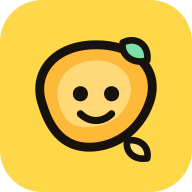
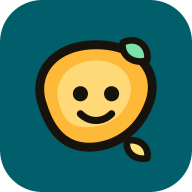
Nieuwe look: petrol en teal in plaats van gele stickers
Zachte schaduwen, Poppins en Inter, nieuwe iconen en themakleuren.
Cacheversie naar schnitzel-v4 zodat iedereen de nieuwe look krijgt.

Claude-Session: https://claude.ai/code/session_01PdZVoL7MrNpysw5bb3Zjmj

diff --git a/styles.css b/styles.css
@@ -1,105 +1,102 @@
-/* Concept: sticker-stijl. Dikke omlijning, harde schaduwen, felle vlakken op een gele puntjesachtergrond. Spelelementen: XP, level, streak, combo. */
+/* Concept: rustig en helder. Petrol en teal op een zacht grijswitte achtergrond, oranje alleen voor de belangrijkste knop. Spelelementen: XP, level, streak, combo. */
 :root {
-  --bg: #ffd84a;
-  --dots: #f0c426;
-  --card: #fffdf5;
-  --ink: #17120c;
-  --muted: #5d5444;
-  --edge: #17120c;
-  --shadow: #17120c;
-  --field: #fff6d6;
-  --c1: #ff8a5c; --c2: #7be0a9; --c3: #7cc8ff; --c4: #ff9ec7; --c5: #c9a7ff;
-  --hot: #ff5a45;
-  --good: #7be0a9; --near: #ffe27a; --bad: #ff9a8a;
-  --on-fill: #17120c;
-  --paper: #fffdf5;                /* vaste crèmekleur voor knoppen/labels op felle vlakken */
-  --rim: var(--edge);              /* rand van de blokken zelf */
-  --rim-shadow: var(--shadow);     /* schaduw van de blokken zelf */
-  --line: var(--edge);             /* zachtere rand voor rustige panelen */
-  --line-shadow: var(--shadow);
-  --line-strong: var(--edge);      /* velden en keuzeknoppen */
-  --font-display: "Bricolage Grotesque", "Trebuchet MS", system-ui, sans-serif;
-  --font-body: "Figtree", system-ui, -apple-system, "Segoe UI", sans-serif;
+  --bg: #F7F9F9;
+  --dots: transparent;
+  --card: #FFFFFF;
+  --ink: #1A1A1A;
+  --muted: #4A5A5C;
+  --edge: #005F6A;
+  --shadow: rgba(0, 95, 106, .18);
+  --field: #F3F8F8;
+  --c1: #F8CDB8; --c2: #BFE3DA; --c3: #CBE5E8; --c4: #E4EEEE; --c5: #AFD6D9;
+  --hot: #E06D3B;
+  --accent: #008080;
+  --good: #BFE3DA; --near: #F7E3A8; --bad: #F5B5A6;
+  --on-fill: #1A1A1A;
+  --paper: #FFFFFF;                /* vaste lichte kleur voor knoppen/labels op gekleurde vlakken */
+  --rim: #CBD8D8;                  /* rand van de blokken zelf */
+  --rim-shadow: rgba(0, 95, 106, .12);
+  --line: #CBD8D8;                 /* zachtere rand voor rustige panelen */
+  --line-shadow: rgba(0, 95, 106, .12);
+  --line-strong: #7FA9AD;          /* velden en keuzeknoppen */
+  --font-display: "Poppins", system-ui, sans-serif;
+  --font-body: "Inter", system-ui, -apple-system, "Segoe UI", sans-serif;
 }
 @media (prefers-color-scheme: dark) {
   :root:not([data-theme="light"]) {
-    --bg: #2a2218; --dots: #362c1f; --card: #3a3024; --ink: #fbf3df; --muted: #d2c7b0; --edge: #fbf3df; --shadow: #17110a;
-    --field: #2e251a; --hot: #ff6b57; color-scheme: dark;
-    /* donker: felle blokken houden een crèmekleurige rand met een warme gouden schaduw; rustige panelen een zachtere rand */
-    --rim-shadow: #947a38;
-    --line: #6a5b44; --line-shadow: #17110a; --line-strong: #a99a78;
+    --bg: #0E1A1C; --card: #16282B; --ink: #EAF2F2; --muted: #A8BEC0; --edge: #5FA8AD; --shadow: rgba(0, 0, 0, .45);
+    --field: #112023; --hot: #F0814F; color-scheme: dark;
+    --rim: #2C4448; --rim-shadow: rgba(0, 0, 0, .35);
+    --line: #2C4448; --line-shadow: rgba(0, 0, 0, .35); --line-strong: #4B7377;
   }
 }
 :root[data-theme="dark"] {
-  --bg: #2a2218; --dots: #362c1f; --card: #3a3024; --ink: #fbf3df; --muted: #d2c7b0; --edge: #fbf3df; --shadow: #17110a;
-  --field: #2e251a; --hot: #ff6b57; color-scheme: dark;
-  /* donker: felle blokken houden een crèmekleurige rand met een warme gouden schaduw; rustige panelen een zachtere rand */
-  --rim-shadow: #947a38;
-  --line: #6a5b44; --line-shadow: #17110a; --line-strong: #a99a78;
+  --bg: #0E1A1C; --card: #16282B; --ink: #EAF2F2; --muted: #A8BEC0; --edge: #5FA8AD; --shadow: rgba(0, 0, 0, .45);
+  --field: #112023; --hot: #F0814F; color-scheme: dark;
+  --rim: #2C4448; --rim-shadow: rgba(0, 0, 0, .35);
+  --line: #2C4448; --line-shadow: rgba(0, 0, 0, .35); --line-strong: #4B7377;
 }
 * { box-sizing: border-box; }
 body {
   background-color: var(--bg);
-  background-image: radial-gradient(var(--dots) 2px, transparent 2.5px);
-  background-size: 22px 22px;
   color: var(--ink); font-family: var(--font-body); font-size: 16px; line-height: 1.5;
   padding-block: 18px 80px;
   padding-left: max(16px, env(safe-area-inset-left, 0px));
   padding-right: max(16px, env(safe-area-inset-right, 0px));
 }
 .wrap { max-width: 760px; margin: 0 auto; display: flex; flex-direction: column; gap: 20px; }
-h1, h2, h3 { font-family: var(--font-display); font-weight: 800; line-height: 1.05; margin: 0; text-wrap: balance; letter-spacing: -0.01em; }
+h1, h2, h3 { font-family: var(--font-display); font-weight: 700; line-height: 1.05; margin: 0; text-wrap: balance; letter-spacing: -0.01em; }
 button, input, textarea, select { font: inherit; color: inherit; }
 button { cursor: pointer; }
-:focus-visible { outline: 4px solid var(--hot); outline-offset: 2px; }
+:focus-visible { outline: 2px solid var(--accent); outline-offset: 2px; }
 
 /* bouwstenen */
-.sticker { background: var(--card); border: 3px solid var(--rim); border-radius: 18px; box-shadow: 5px 5px 0 var(--rim-shadow); }
-.sticker.panel:not(.q), .sticker.chapter, .sticker.empty { border-color: var(--line); box-shadow: 5px 5px 0 var(--line-shadow); }
-/* Felle vlakken: alles erin gedraagt zich als in de lichte modus (donkere tekst, crème knoppen), ook in de donkere modus */
-.levelcard, .subject, .q, .score, .face, .feedback { --card: var(--paper); --ink: #17120c; --edge: #17120c; --shadow: #17120c; --field: #fff6d6; }
+.sticker { background: var(--card); border: 2px solid var(--rim); border-radius: 16px; box-shadow: 0 8px 24px var(--rim-shadow); }
+.sticker.panel:not(.q), .sticker.chapter, .sticker.empty { border-color: var(--line); box-shadow: 0 8px 24px var(--line-shadow); }
+/* Felle vlakken: alles erin gedraagt zich als in de lichte modus (donkere tekst, witte knoppen), ook in de donkere modus */
+.levelcard, .subject, .q, .score, .face, .feedback { --card: var(--paper); --ink: #1A1A1A; --edge: #005F6A; --shadow: rgba(0, 95, 106, .18); --field: #F3F8F8; }
 .btn {
-  background: var(--card); border: 3px solid var(--edge); border-radius: 14px; box-shadow: 3px 3px 0 var(--shadow);
+  background: var(--card); border: 2px solid var(--edge); border-radius: 14px; box-shadow: 0 2px 6px var(--shadow);
   padding: 8px 16px; min-height: 46px; font-weight: 700; transition: transform .08s, box-shadow .08s;
 }
-.btn:hover { transform: translate(-1px, -1px); box-shadow: 4px 4px 0 var(--shadow); }
+.btn:hover { transform: translate(-1px, -1px); box-shadow: 0 4px 10px var(--shadow); }
 .btn:active { transform: translate(3px, 3px); box-shadow: 0 0 0 var(--shadow); }
-.btn.primary { background: var(--hot); color: #17120c; }
-.btn.good { background: var(--good); color: #17120c; }
-.btn.alt { background: var(--c3); color: #17120c; }
+.btn.primary { background: var(--hot); color: #1A1A1A; }
+.btn.good { background: var(--good); color: #1A1A1A; }
+.btn.alt { background: var(--c3); color: #1A1A1A; }
 .btn.small { padding: 4px 12px; min-height: 38px; font-size: 14px; }
 .btn.flat { box-shadow: none; background: transparent; }
-.btn:disabled { opacity: .45; cursor: not-allowed; transform: none; box-shadow: 3px 3px 0 var(--shadow); }
+.btn:disabled { opacity: .45; cursor: not-allowed; transform: none; box-shadow: 0 2px 6px var(--shadow); }
 .linkbtn { background: none; border: 0; padding: 0; font-weight: 700; text-decoration: underline; text-underline-offset: 3px; text-decoration-thickness: 2px; }
 .lbl { font-size: 12px; font-weight: 700; letter-spacing: .08em; text-transform: uppercase; color: var(--muted); }
 .hint { color: var(--muted); font-size: 14px; margin: 0; }
 .row { display: flex; gap: 12px; flex-wrap: wrap; align-items: flex-end; }
 .field { display: flex; flex-direction: column; gap: 4px; flex: 1 1 160px; min-width: 0; }
 input[type=text], textarea {
-  background: var(--field); border: 3px solid var(--line-strong); border-radius: 12px; padding: 8px 12px; width: 100%; min-height: 46px;
+  background: var(--field); border: 2px solid var(--line-strong); border-radius: 12px; padding: 8px 12px; width: 100%; min-height: 46px;
 }
 textarea { min-height: 120px; resize: vertical; }
-input[type=text]:focus, textarea:focus { outline: none; box-shadow: 4px 4px 0 var(--hot); }
-.pill { white-space: nowrap; display: inline-flex; align-items: center; gap: 6px; border: 3px solid var(--edge); border-radius: 99px; padding: 2px 12px; font-weight: 700; background: var(--card); font-variant-numeric: tabular-nums; }
+input[type=text]:focus, textarea:focus { outline: none; box-shadow: 0 0 0 3px color-mix(in srgb, var(--accent) 40%, transparent); }
+.pill { white-space: nowrap; display: inline-flex; align-items: center; gap: 6px; border: 2px solid var(--edge); border-radius: 99px; padding: 2px 12px; font-weight: 700; background: var(--card); font-variant-numeric: tabular-nums; }
 
 /* bovenbalk */
 .top { display: flex; align-items: center; justify-content: space-between; gap: 12px; flex-wrap: wrap; }
 .brand { display: flex; align-items: center; gap: 8px; background: none; border: 0; padding: 0; text-align: left; }
 .logo { width: 52px; height: 52px; flex: none; transition: transform .3s; }
 .brand:hover .logo { transform: rotate(-12deg) scale(1.08); }
-.brand-name { font-family: var(--font-display); font-weight: 800; font-size: 30px; letter-spacing: -0.03em; line-height: 1; color: var(--ink); }
+.brand-name { font-family: var(--font-display); font-weight: 700; font-size: 30px; letter-spacing: -0.03em; line-height: 1; color: var(--ink); }
 .brand-name span { color: var(--hot); -webkit-text-stroke: 0; }
 .chips { display: flex; gap: 8px; align-items: center; flex-wrap: wrap; }
 .chips svg { width: 20px; height: 20px; flex: none; }
-.pill.fire { background: var(--c1); color: #17120c; }
-.pill.lvl { background: var(--c5); color: #17120c; }
+.pill.fire { background: var(--c1); color: #1A1A1A; }
+.pill.lvl { background: var(--c5); color: #1A1A1A; }
 .pill.snd { background: var(--card); min-height: 0; }
 
 .levelcard { padding: 16px; display: flex; flex-direction: column; gap: 10px; background: var(--c3); color: var(--on-fill); }
-.levelcard .lbl { color: #3a3224; }
+.levelcard .lbl { color: #3E5457; }
 .levelcard h2 { font-size: 26px; }
-.bar { height: 18px; border: 3px solid var(--edge); border-radius: 99px; background: var(--card); overflow: hidden; }
-.bar i { display: block; height: 100%; background: var(--hot); border-right: 3px solid var(--edge); transition: width .5s; min-width: 0; }
+.bar { height: 18px; border: 2px solid var(--edge); border-radius: 99px; background: var(--card); overflow: hidden; }
+.bar i { display: block; height: 100%; background: var(--accent); border-right: 2px solid var(--edge); transition: width .5s; min-width: 0; }
 .bar.green i { background: var(--c2); }
 .bar.slim { height: 12px; border-width: 2px; }
 .bar.slim i { border-right-width: 2px; }
@@ -127,9 +124,9 @@ input[type=text]:focus, textarea:focus { outline: none; box-shadow: 4px 4px 0 va
 .choices { display: flex; gap: 10px; flex-wrap: wrap; }
 .choice { position: relative; }
 .choice input { position: absolute; opacity: 0; inset: 0; width: 100%; height: 100%; margin: 0; cursor: pointer; }
-.choice span { display: block; border: 3px solid var(--line-strong); border-radius: 12px; padding: 6px 14px; min-height: 42px; background: var(--card); font-weight: 600; display: flex; align-items: center; }
-.choice input:checked + span { background: var(--c1); color: #17120c; border-color: var(--edge); box-shadow: 3px 3px 0 var(--shadow); font-weight: 700; }
-.choice input:focus-visible + span { outline: 4px solid var(--hot); outline-offset: 2px; }
+.choice span { display: block; border: 2px solid var(--line-strong); border-radius: 12px; padding: 6px 14px; min-height: 42px; background: var(--card); font-weight: 600; display: flex; align-items: center; }
+.choice input:checked + span { background: var(--c1); color: #1A1A1A; border-color: var(--edge); box-shadow: 0 2px 6px var(--shadow); font-weight: 700; }
+.choice input:focus-visible + span { outline: 2px solid var(--accent); outline-offset: 2px; }
 .chapters { display: flex; flex-direction: column; gap: 16px; }
 .chapter { overflow: hidden; }
 .chead { display: flex; gap: 12px; align-items: center; padding: 14px 16px; flex-wrap: wrap; }
@@ -139,7 +136,7 @@ input[type=text]:focus, textarea:focus { outline: none; box-shadow: 4px 4px 0 va
 .chapter.open .caret { transform: rotate(90deg); }
 .cmeta { display: flex; gap: 10px; align-items: center; font-size: 14px; font-weight: 600; font-variant-numeric: tabular-nums; }
 .cmeta .bar { flex: 1; max-width: 160px; }
-.cbody { border-top: 3px solid var(--line); padding: 16px; display: flex; flex-direction: column; gap: 18px; background: var(--field); }
+.cbody { border-top: 2px solid var(--line); padding: 16px; display: flex; flex-direction: column; gap: 18px; background: var(--field); }
 .cbody h4 { margin: 0; font-family: var(--font-display); font-size: 18px; }
 .wordhead, .wordrow { display: grid; grid-template-columns: 1fr 1fr auto auto; gap: 8px; align-items: center; }
 .wordhead { padding-bottom: 4px; }
@@ -152,7 +149,7 @@ input[type=text]:focus, textarea:focus { outline: none; box-shadow: 4px 4px 0 va
 .pips { display: inline-flex; gap: 3px; }
 .pips i { width: 10px; height: 10px; border: 2px solid var(--edge); border-radius: 50%; display: block; }
 .pips i.on { background: var(--c2); }
-.preview { background: var(--good); color: #17120c; border: 3px solid var(--edge); border-radius: 12px; padding: 10px 12px; font-size: 14px; }
+.preview { background: var(--good); color: #1A1A1A; border: 2px solid var(--edge); border-radius: 12px; padding: 10px 12px; font-size: 14px; }
 .preview.err { background: var(--bad); }
 .preview ul { margin: 6px 0 0; padding-left: 18px; }
 .empty { text-align: center; color: var(--muted); padding: 18px; font-weight: 600; }
@@ -161,15 +158,15 @@ input[type=text]:focus, textarea:focus { outline: none; box-shadow: 4px 4px 0 va
 /* oefenen */
 .hud { display: flex; align-items: center; gap: 10px; flex-wrap: wrap; }
 .hud .bar { flex: 1 1 120px; }
-.combo { background: var(--c1); color: #17120c; animation: pop .35s; }
+.combo { background: var(--c1); color: #1A1A1A; animation: pop .35s; }
 @keyframes pop { 0% { transform: scale(.6); } 60% { transform: scale(1.2); } 100% { transform: scale(1); } }
 .q { text-align: center; padding: 30px 16px; display: flex; flex-direction: column; gap: 8px; align-items: center; background: var(--c3); color: var(--on-fill); }
-.q .lbl { color: #3a3224; }
-.word { font-family: var(--font-display); font-weight: 800; font-size: clamp(34px, 10vw, 58px); line-height: 1.05; overflow-wrap: anywhere; }
+.q .lbl { color: #3E5457; }
+.word { font-family: var(--font-display); font-weight: 700; font-size: clamp(34px, 10vw, 58px); line-height: 1.05; overflow-wrap: anywhere; }
 .answerrow { display: flex; gap: 12px; flex-wrap: wrap; }
 .answerrow input { flex: 1 1 200px; font-size: 22px; min-height: 56px; }
 .answerrow .btn { min-height: 56px; }
-.feedback { padding: 16px; display: flex; flex-direction: column; gap: 4px; color: #17120c; animation: pop .35s; }
+.feedback { padding: 16px; display: flex; flex-direction: column; gap: 4px; color: #1A1A1A; animation: pop .35s; }
 .feedback.ok { background: var(--good); } .feedback.near { background: var(--near); } .feedback.bad { background: var(--bad); }
 .feedback strong { font-family: var(--font-display); font-size: 28px; }
 .feedback .correct { font-size: 24px; font-weight: 700; overflow-wrap: anywhere; }
@@ -185,13 +182,13 @@ input[type=text]:focus, textarea:focus { outline: none; box-shadow: 4px 4px 0 va
 .face { position: absolute; inset: 0; backface-visibility: hidden; -webkit-backface-visibility: hidden; display: flex; flex-direction: column; gap: 8px; align-items: center; justify-content: center; padding: 20px; text-align: center; color: var(--on-fill); }
 .face.front { background: var(--c3); }
 .face.back { background: var(--c4); transform: rotateY(180deg); }
-.face .lbl { color: #3a3224; }
+.face .lbl { color: #3E5457; }
 .cardbtns { display: grid; grid-template-columns: 1fr 1fr; gap: 12px; }
 .cardbtns .btn { min-height: 56px; font-size: 18px; }
 
 .score { text-align: center; display: flex; flex-direction: column; gap: 10px; align-items: center; padding: 22px 16px; background: var(--c2); color: var(--on-fill); }
-.score .lbl { color: #2b3a2f; }
-.score .big { font-family: var(--font-display); font-weight: 800; font-size: clamp(56px, 18vw, 96px); line-height: 1; font-variant-numeric: tabular-nums; }
+.score .lbl { color: #3E5457; }
+.score .big { font-family: var(--font-display); font-weight: 700; font-size: clamp(56px, 18vw, 96px); line-height: 1; font-variant-numeric: tabular-nums; }
 .score .logo { width: 92px; height: 92px; animation: wig 1.2s ease-in-out infinite; }
 @keyframes wig { 0%, 100% { transform: rotate(-8deg); } 50% { transform: rotate(8deg) scale(1.06); } }
 .stats3 { display: flex; gap: 10px; flex-wrap: wrap; justify-content: center; }

diff --git a/app.js b/app.js
@@ -142,7 +142,7 @@ function confetti(n = 140) {
   if (matchMedia("(prefers-reduced-motion: reduce)").matches) return;
   const cv = document.getElementById("confetti"), ctx = cv.getContext("2d");
   cv.width = innerWidth; cv.height = innerHeight;
-  const cols = ["#ff5a45", "#ffd84a", "#7be0a9", "#7cc8ff", "#ff9ec7", "#c9a7ff"];
+  const cols = ["#E06D3B", "#008080", "#005F6A", "#BFE3DA", "#F8CDB8", "#AFD6D9"];
   const ps = Array.from({ length: n }, () => ({ x: cv.width / 2 + (Math.random() - .5) * 120, y: cv.height * .35, vx: (Math.random() - .5) * 14, vy: -Math.random() * 14 - 3, r: Math.random() * 6 + 4, c: cols[(Math.random() * cols.length) | 0], a: Math.random() * 6, va: (Math.random() - .5) * .4 }));
   const t0 = performance.now();
   (function frame(t) {
@@ -218,7 +218,7 @@ let session = null;
 let draft = { name: "", langA: "Nederlands", langB: "", chName: "", paste: "" };
 
 const LOGO = `<svg class="logo" viewBox="0 0 64 64" aria-hidden="true"><path d="M8 36C3 22 13 9 32 9c19 0 29 12 24 26-5 14-17 20-27 20-10 0-17-6-21-19z" fill="#ffb938" stroke="#17120c" stroke-width="4" stroke-linejoin="round"/><path d="M15 34c-2-10 6-18 17-18s18 8 15 17c-3 9-11 13-19 13s-11-4-13-12z" fill="#ffd978"/><circle cx="25" cy="31" r="3.4" fill="#17120c"/><circle cx="39" cy="31" r="3.4" fill="#17120c"/><path d="M25 40c4 4 10 4 14 0" fill="none" stroke="#17120c" stroke-width="3.2" stroke-linecap="round"/><path d="M44 8c6-3 12 1 11 8-6 2-12-2-11-8z" fill="#7be0a9" stroke="#17120c" stroke-width="3" stroke-linejoin="round"/><path d="M46 52c6-1 10 3 9 8-6 1-10-3-9-8z" fill="#ffe27a" stroke="#17120c" stroke-width="3" stroke-linejoin="round"/></svg>`;
-const FLAME = `<svg viewBox="0 0 24 24" aria-hidden="true"><path d="M12 2c1 4 6 6 6 12a6 6 0 0 1-12 0c0-2 1-3 2-4 0 2 1 3 2 3 0-4-1-7 2-11z" fill="#ff5a45" stroke="#17120c" stroke-width="2" stroke-linejoin="round"/></svg>`;
+const FLAME = `<svg viewBox="0 0 24 24" aria-hidden="true"><path d="M12 2c1 4 6 6 6 12a6 6 0 0 1-12 0c0-2 1-3 2-4 0 2 1 3 2 3 0-4-1-7 2-11z" fill="#E06D3B" stroke="#1A1A1A" stroke-width="2" stroke-linejoin="round"/></svg>`;
 
 function shell(inner) {
   const li = levelInfo(), sk = currentStreak();

diff --git a/index.html b/index.html
@@ -5,8 +5,8 @@
     <meta name="viewport" content="width=device-width, initial-scale=1, viewport-fit=cover" />
     <title>Schnitzel Learning</title>
     <meta name="description" content="Woordjes leren met herhaling, XP en levels." />
-    <meta name="theme-color" content="#ffd84a" media="(prefers-color-scheme: light)" />
-    <meta name="theme-color" content="#2a2218" media="(prefers-color-scheme: dark)" />
+    <meta name="theme-color" content="#F7F9F9" media="(prefers-color-scheme: light)" />
+    <meta name="theme-color" content="#0E1A1C" media="(prefers-color-scheme: dark)" />
     <meta name="apple-mobile-web-app-capable" content="yes" />
     <meta name="mobile-web-app-capable" content="yes" />
     <meta name="apple-mobile-web-app-status-bar-style" content="default" />
@@ -16,7 +16,7 @@
     <link rel="apple-touch-icon" href="icons/apple-touch-icon.png" />
     <link rel="preconnect" href="https://fonts.googleapis.com" />
     <link rel="preconnect" href="https://fonts.gstatic.com" crossorigin />
-    <link rel="stylesheet" href="https://fonts.googleapis.com/css2?family=Bricolage+Grotesque:opsz,wght@12..96,600;12..96,800&family=Figtree:wght@400;500;600;700&display=swap" />
+    <link rel="stylesheet" href="https://fonts.googleapis.com/css2?family=Inter:wght@400;500;600;700&family=Poppins:wght@500;600;700&display=swap" />
     <link rel="stylesheet" href="styles.css" />
   </head>
   <body>

diff --git a/sw.js b/sw.js
@@ -1,6 +1,6 @@
 // Service worker: zorgt dat Schnitzel Learning ook zonder internet opent.
 // Verhoog CACHE_VERSION bij elke wijziging aan de app, dan krijgt iedereen de nieuwe versie.
-const CACHE_VERSION = "schnitzel-v3";
+const CACHE_VERSION = "schnitzel-v4";
 
 const APP_SHELL = [
   "./",
